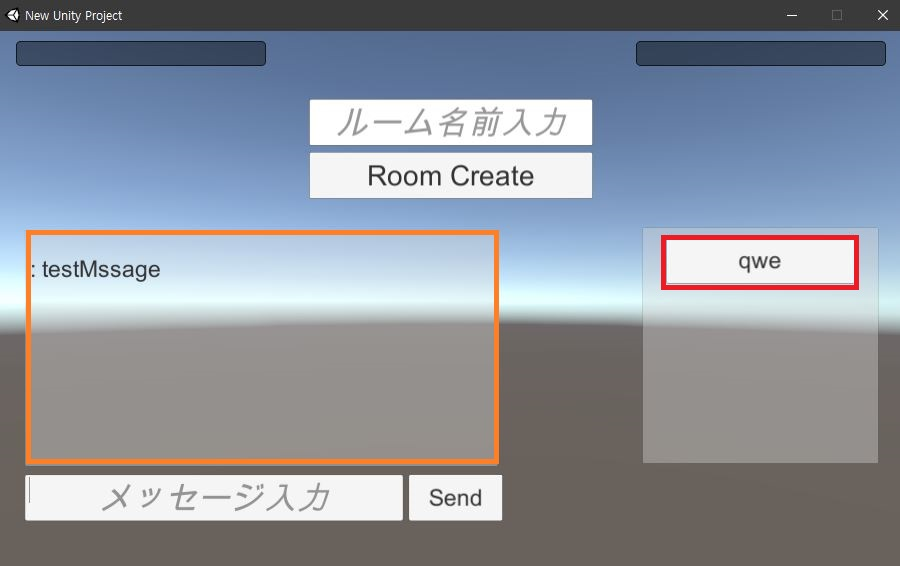
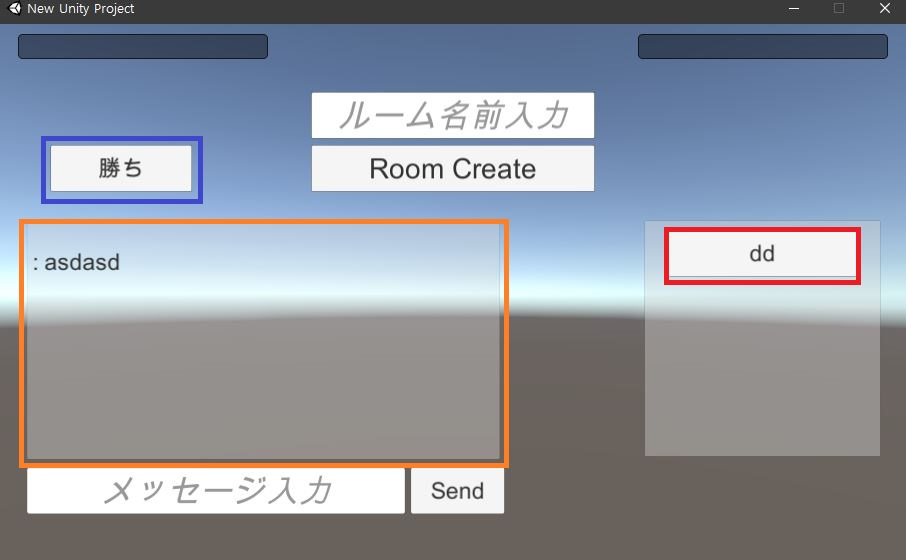
Client result text make

diff --git a/serverTest/Client/Assets/Script/GameManger.cs b/serverTest/Client/Assets/Script/GameManger.cs
@@ -46,6 +46,16 @@ public class GameManger : MonoBehaviour
             ClientStatus.score[0] = 0;
             ClientStatus.score[1] = 0;
             ClientStatus.GameOver = true;
+
+            if(ClientStatus.UUID == ClientStatus.currentUUID[0])
+            {
+                ClientStatus.result = "勝ち";
+            }
+
+            else if (ClientStatus.UUID == ClientStatus.currentUUID[1])
+            {
+                ClientStatus.result = "負け";
+            }
         }
 
         else if (ClientStatus.score[1] >= 5)
@@ -53,6 +63,16 @@ public class GameManger : MonoBehaviour
             ClientStatus.score[0] = 0;
             ClientStatus.score[1] = 0;
             ClientStatus.GameOver = true;
+
+            if (ClientStatus.UUID == ClientStatus.currentUUID[0])
+            {
+                ClientStatus.result = "負け";
+            }
+
+            else if (ClientStatus.UUID == ClientStatus.currentUUID[1])
+            {
+                ClientStatus.result = "勝ち";
+            }
         }
     }
 
@@ -79,32 +99,7 @@ public class GameManger : MonoBehaviour
         }
 
     }
-    //#if UNITY_EDITOR
-    //    /// <summary>
-    //    /// 
-    //    /// </summary>
-    //    /// <returns></returns>
-    //    IEnumerator GameInit()
-    //    {
-
-    //        var Name = ClientStatus.UUID;
-
-    //        yield return null;
-
-    //        currentUUID[0] = ClientStatus.currentUUID[0];
-
-    //        for (int i = 0; i < 2; i++)
-    //        {
-    //            var obj = Instantiate(PlayerPrefab, RespawnPosint[i], Quaternion.identity) as GameObject;
-
-    //            var player = obj.GetComponent<Player>();
-    //            player.UUID = currentUUID[i];
-
-    //            Players.Add(currentUUID[i], obj);
-
-    //        }
-    //    }
-    //#else
+    
     /// <summary>
     /// 
     /// </summary>
@@ -131,7 +126,6 @@ public class GameManger : MonoBehaviour
 
         Ball = Instantiate(BallPrefab, new Vector3(0,0,0), Quaternion.identity) as GameObject;
     }
-//#endif
 
     public Texture2D icon;
 
@@ -146,9 +140,6 @@ public class GameManger : MonoBehaviour
         {
             GUI.Box(new Rect((Screen.width - 60) - (50 * i), Screen.height - 60, 50, 50), icon);
         }
-        //GUI.Box(new Rect(10, Screen.height - 60, 50, 50), icon);
-        //GUI.Box(new Rect(Screen.width - 60, Screen.height - 60, 50, 50), icon);
-        //GUI.Box(new Rect(Screen.width/2 - 50, Screen.height - 60, 100, 50), "sa");
     }
 }
 

diff --git a/serverTest/Client/Assets/Script/UiManger.cs b/serverTest/Client/Assets/Script/UiManger.cs
@@ -21,6 +21,8 @@ public class UiManger : MonoBehaviour
     private Transform Scroll_View_Content;
     [SerializeField]
     private GameObject RoomOBJ;
+    [SerializeField]
+    private Text result;
 
     public Dictionary<string, GameObject> Rooms = new Dictionary<string, GameObject>();
 
@@ -47,11 +49,6 @@ public class UiManger : MonoBehaviour
 
         string Data = RoomJSON.CreateToJSON(data);
         socket.Emit("creatRoom", new JSONObject(Data));
-
-        //SceneManager.LoadScene("Game");
-        //DontDestroyOnLoad(socket.gameObject);
-        //DontDestroyOnLoad(networkManger.gameObject);
-        //DontDestroyOnLoad(this.gameObject);
 
         socket.Emit("joinRoom", new JSONObject(Data));
         mainCanvas.gameObject.SetActive(false);
@@ -85,10 +82,6 @@ public class UiManger : MonoBehaviour
     /// </summary>
     public void join_Room(Room target)
     {
-        //SceneManager.LoadScene("Game");
-        //DontDestroyOnLoad(socket.gameObject);
-        //DontDestroyOnLoad(networkManger.gameObject);
-        //DontDestroyOnLoad(this.gameObject);
 
         RoomJSON data = new RoomJSON();
         ClientStatus.currentingRoom = target.Name;
@@ -107,6 +100,7 @@ public class UiManger : MonoBehaviour
     public void ReturnLobby()
     {
         mainCanvas.gameObject.SetActive(true);
+        result.text = ClientStatus.result;
     }
 
     void OnGUI()

diff --git a/serverTest/Client/Assets/Script/ClientStatus.cs b/serverTest/Client/Assets/Script/ClientStatus.cs
@@ -6,9 +6,10 @@ public class ClientStatus
 {
     public static string UUID { get; set; }
     public static string[] currentUUID = {"", ""};
-    //public static string[] currentUUID = new string[2];
     public static string currentingRoom { get; set; }
 
     public static int[] score = { 0, 0 };
     public static bool GameOver;
+
+    public static string result;
 }

diff --git a/README.md b/README.md
@@ -50,7 +50,7 @@ URL = ws://localhost:3000/socket.io/?EIO=4&transport=websocket
 localhostのみ自分が変更したいなIPを変更
 
 ## Title画面(Client1)
-<center><img src="./doc/Title.JPG" width= 50%></center>
+<center><img src="./doc/Title1.JPG" width= 50%></center>
 
 赤いbox : Roomの名前入力してRoom Create **Button**を押すとゲームに入る。  
 黄色box : Messageを入力してSend **Button**を押すとMassageをServerに**送信**する。  
@@ -60,6 +60,7 @@ localhostのみ自分が変更したいなIPを変更
 
 赤いbox : 生成されたRoom Listが表示してその**Button**を押すとゲームに入る。  
 黄色box : Serverから**送信**されたMassageがあったらMassage内容を表示する。  
+青い色box : ゲームの勝利を判定
 
 ## Game画面(待機)
 <center><img src="./doc/Game.JPG" width= 50%></center>
@@ -86,3 +87,7 @@ Client1は別のClient2が入るまでに待機する。
 
 ### 操作系（キーボード）
 Wキーで上に移動、Sキーで下に移動 **(画面内だけ移動可能)**
+
+#  改善点
+今回のProjectにはSocket.IOを使ったんですがUnity側のSocket.IO関連ライブラリは支援が終わりましたので  
+次のserver関連Projectをやる時には外部ライブラリを使わずにSystem.Net.Socketsを使ってネットワークゲームを作るつもりです。
